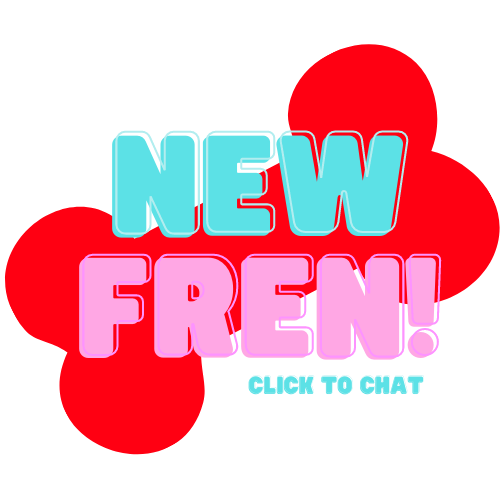
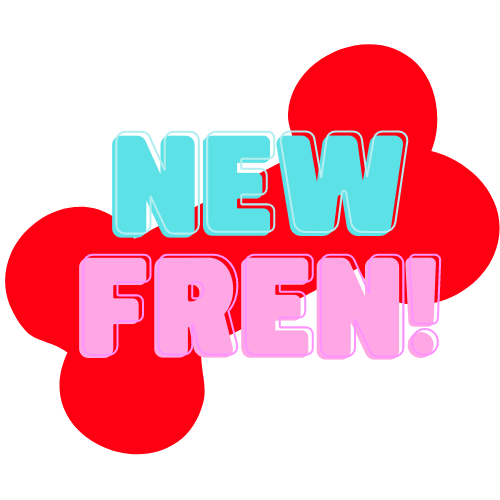
Put chat and keep fetching option in match alert

Changed region(s): [[0.48, 0.75, 0.87, 0.81]]

diff --git a/client/src/components/MatchAlert2.js b/client/src/components/MatchAlert2.js
@@ -1,15 +1,28 @@
 import React from "react";
 import { Link } from "react-router-dom";
 import matchAlert from "../assets/images/it's a.png";
+import goChat from "../assets/images/2.png";
+import keepFetching from "../assets/images/3.png";
 import dogBark from "../assets/audio/dog bark.wav";
 
-export default function MatchAlert2() {
+export default function MatchAlert2({ setMatchAlertFalse }) {
   return (
-    <div className="matchAlert2__container">
+    <div className="matchAlert2__container" style={{ marginTop: "20px" }}>
       <div className="matchAlert2">
+        <img src={matchAlert} alt="match"></img>
         <Link to="/chats">
-          <img src={matchAlert} alt="match"></img>
+          <img
+            src={goChat}
+            alt="chat"
+            style={{ height: "100px", width: "100px" }}
+          ></img>
         </Link>
+        <img
+          src={keepFetching}
+          alt="fetch"
+          style={{ height: "100px", width: "100px", cursor: "pointer" }}
+          onClick={() => setMatchAlertFalse()}
+        ></img>
         <audio autoPlay>
           <source src={dogBark} type="audio/mpeg" />
         </audio>
